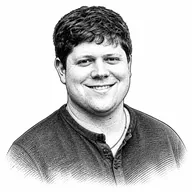
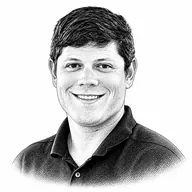
Update Clifton Harness hedcut; add breathing room under title
New portrait generated from an updated professional headshot,
replacing the older/casual-photo hedcut. Also widens the gap between
the headline and search box by 10px.

Claude-Session: https://claude.ai/code/session_01SsqeSfoMmMj4BMwkKxmygM

diff --git a/guests/index.html b/guests/index.html
@@ -147,7 +147,7 @@ a { color: inherit; }
 }
 
 .guest-title-block {
-  margin-bottom: 4px;
+  margin-bottom: 14px;
 }
 .guest-hero-logo {
   height: 20px;
